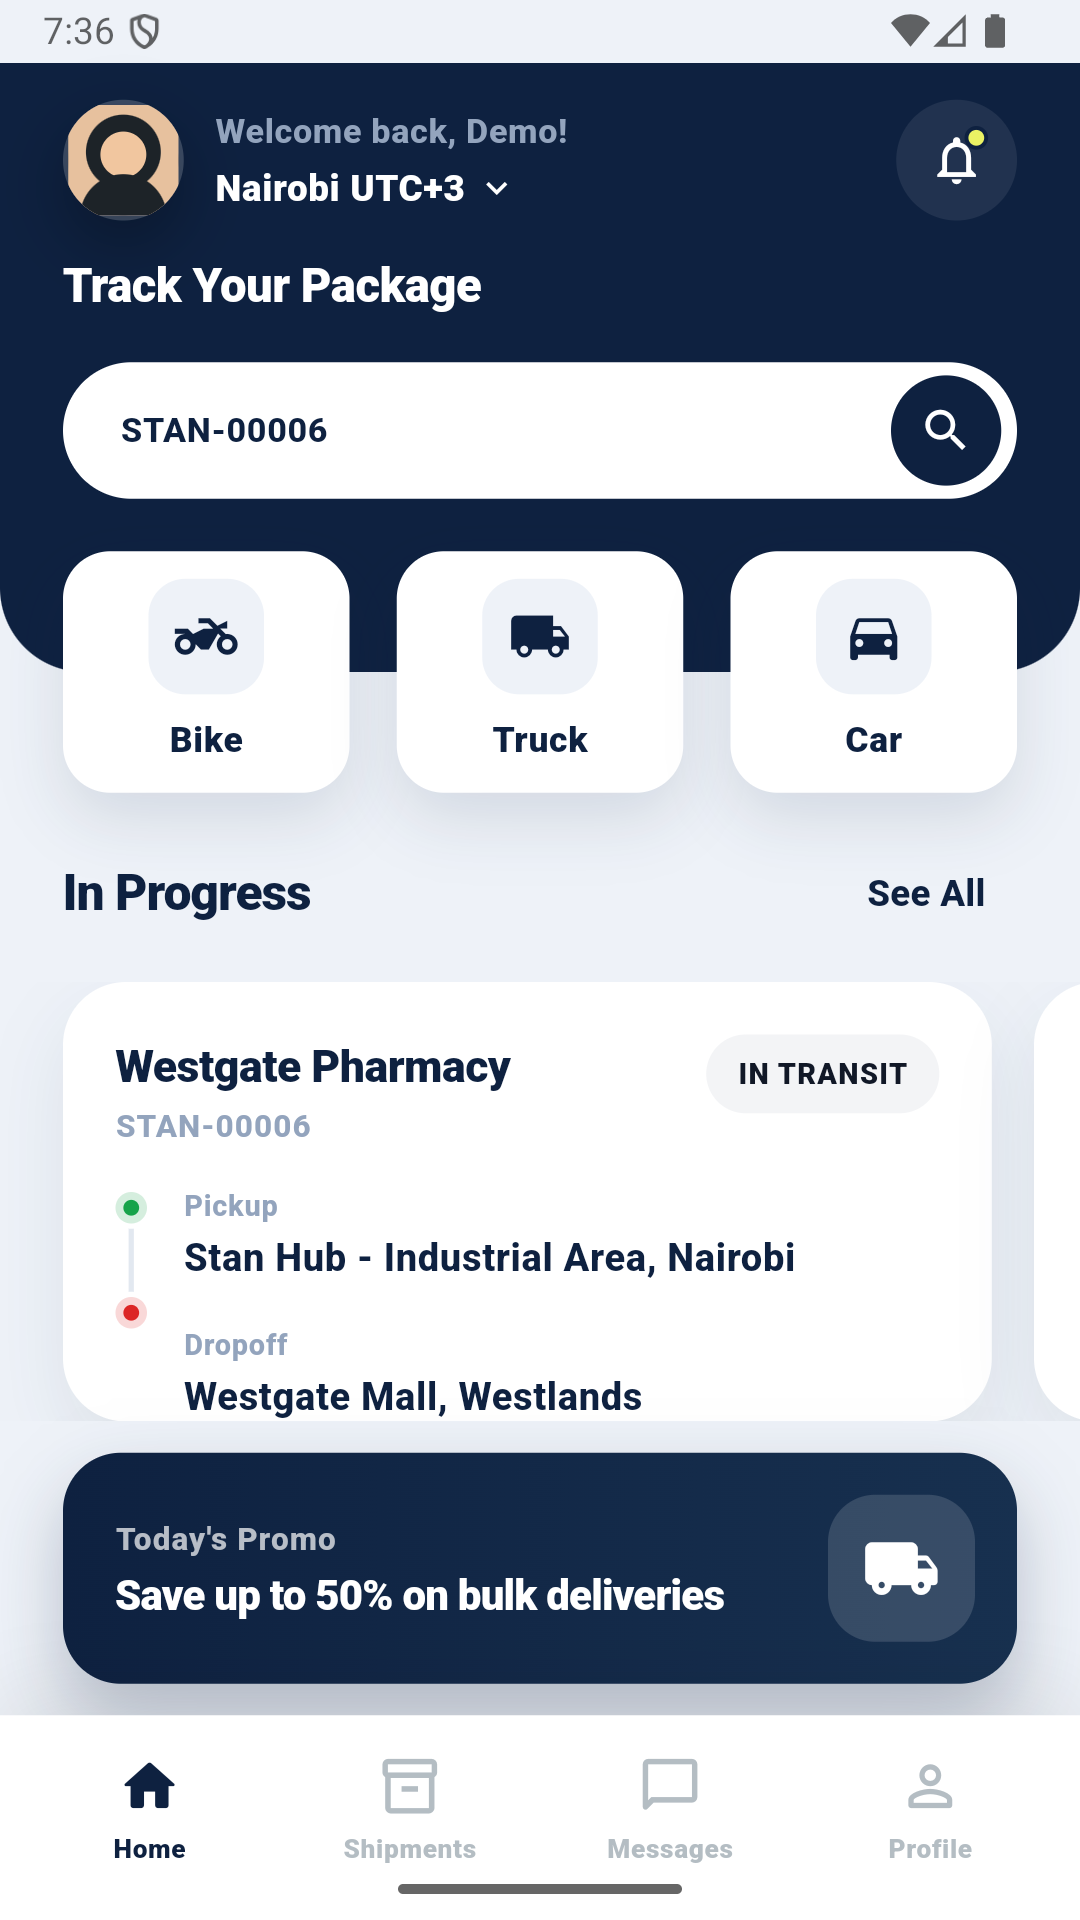
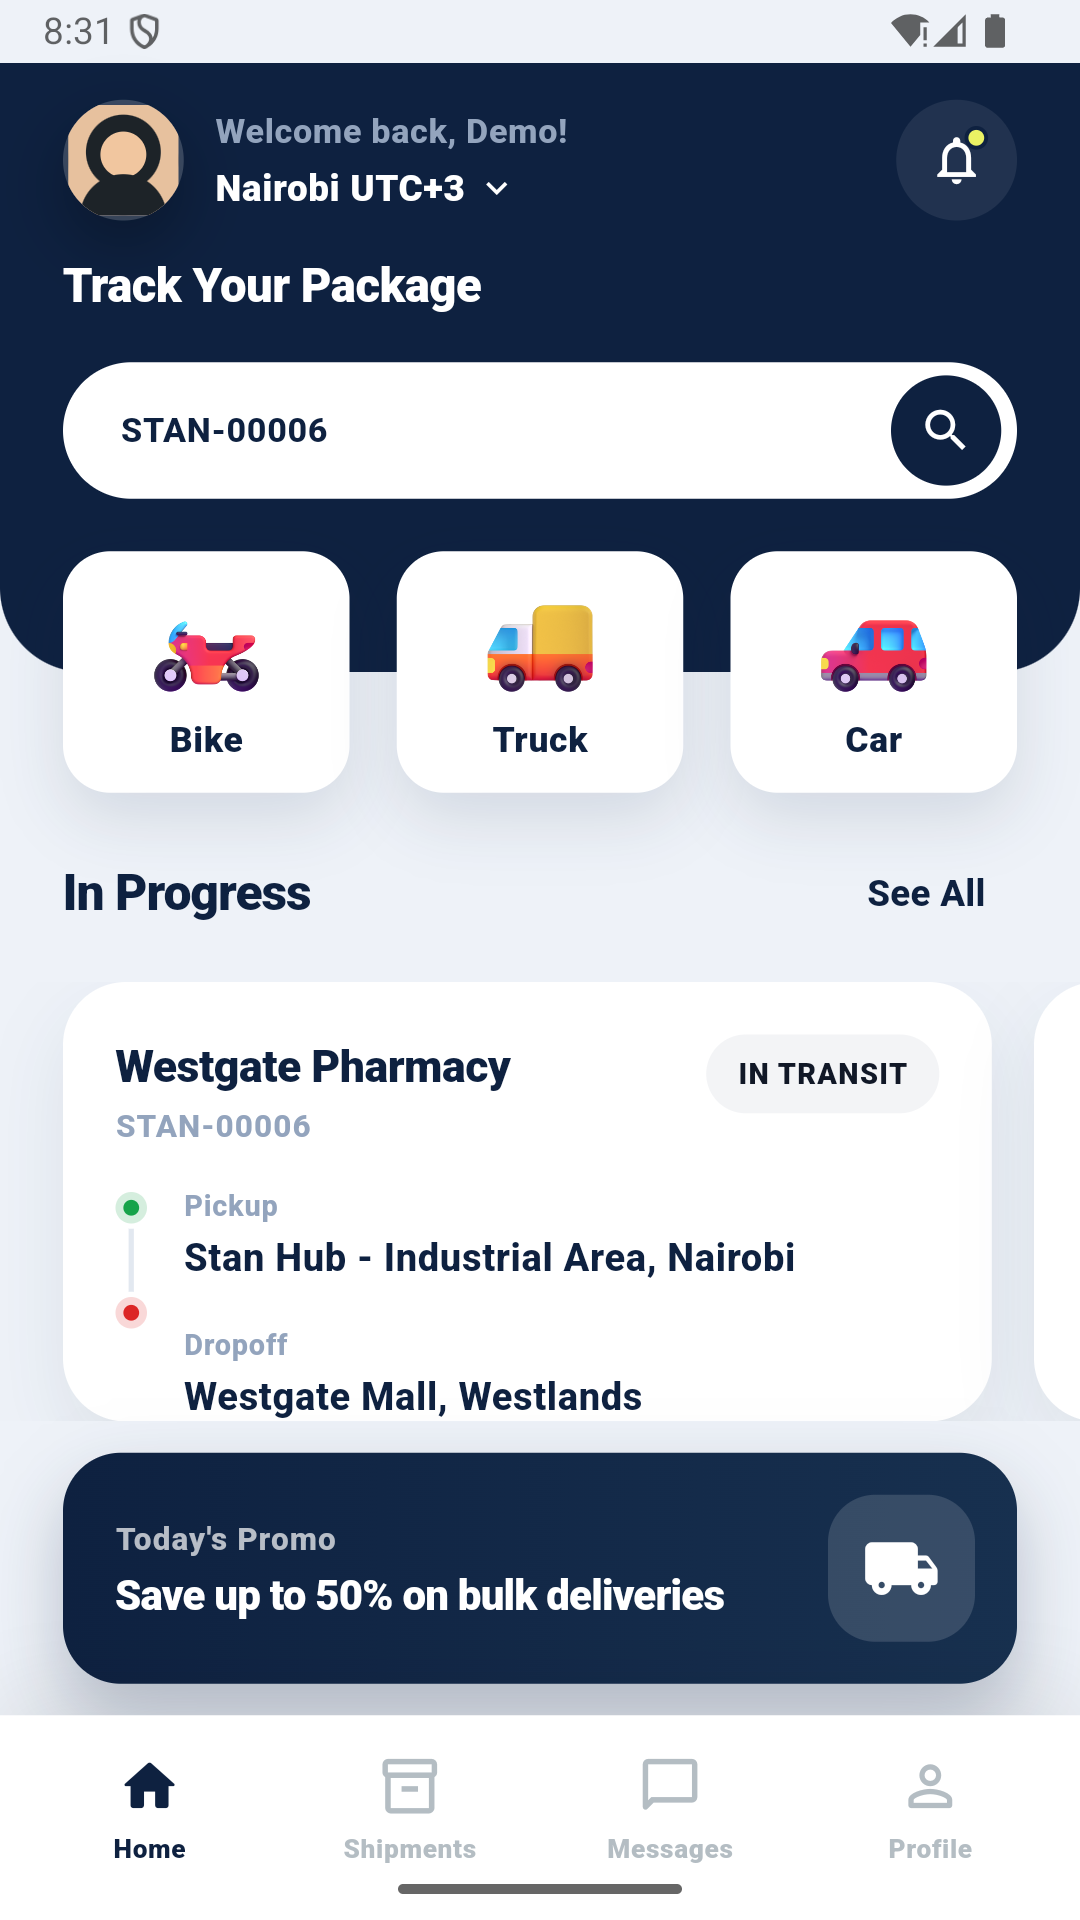
Use Fluent Emoji 3D vehicle art for category cards (MIT licensed)
- Add assets/vehicles/{bike,truck,car}.png from Microsoft Fluent Emoji (MIT)
- Render images in transport cards with icon fallback; register in pubspec

diff --git a/driver_app/lib/main.dart b/driver_app/lib/main.dart
@@ -1905,21 +1905,24 @@ class _DriverHomeScreenState extends State<DriverHomeScreen>
               children: [
                 Expanded(
                   child: _buildTransportCard(
-                    icon: Icons.two_wheeler,
+                    asset: 'assets/vehicles/bike.png',
+                    fallbackIcon: Icons.two_wheeler,
                     label: 'Bike',
                   ),
                 ),
                 const SizedBox(width: 18),
                 Expanded(
                   child: _buildTransportCard(
-                    icon: Icons.local_shipping,
+                    asset: 'assets/vehicles/truck.png',
+                    fallbackIcon: Icons.local_shipping,
                     label: 'Truck',
                   ),
                 ),
                 const SizedBox(width: 18),
                 Expanded(
                   child: _buildTransportCard(
-                    icon: Icons.directions_car,
+                    asset: 'assets/vehicles/car.png',
+                    fallbackIcon: Icons.directions_car,
                     label: 'Car',
                   ),
                 ),
@@ -2061,7 +2064,11 @@ class _DriverHomeScreenState extends State<DriverHomeScreen>
     );
   }
 
-  Widget _buildTransportCard({required IconData icon, required String label}) {
+  Widget _buildTransportCard({
+    required String asset,
+    required IconData fallbackIcon,
+    required String label,
+  }) {
     return Container(
       height: 92,
       decoration: BoxDecoration(
@@ -2078,16 +2085,16 @@ class _DriverHomeScreenState extends State<DriverHomeScreen>
       child: Column(
         mainAxisAlignment: MainAxisAlignment.center,
         children: [
-          Container(
-            width: 44,
-            height: 44,
-            decoration: BoxDecoration(
-              color: stanSurface,
-              borderRadius: BorderRadius.circular(14),
-            ),
-            child: Icon(icon, color: stanDark, size: 24),
+          Image.asset(
+            asset,
+            width: 46,
+            height: 46,
+            fit: BoxFit.contain,
+            filterQuality: FilterQuality.high,
+            errorBuilder: (_, _, _) =>
+                Icon(fallbackIcon, color: stanDark, size: 26),
           ),
-          const SizedBox(height: 8),
+          const SizedBox(height: 6),
           Text(
             label,
             style: const TextStyle(